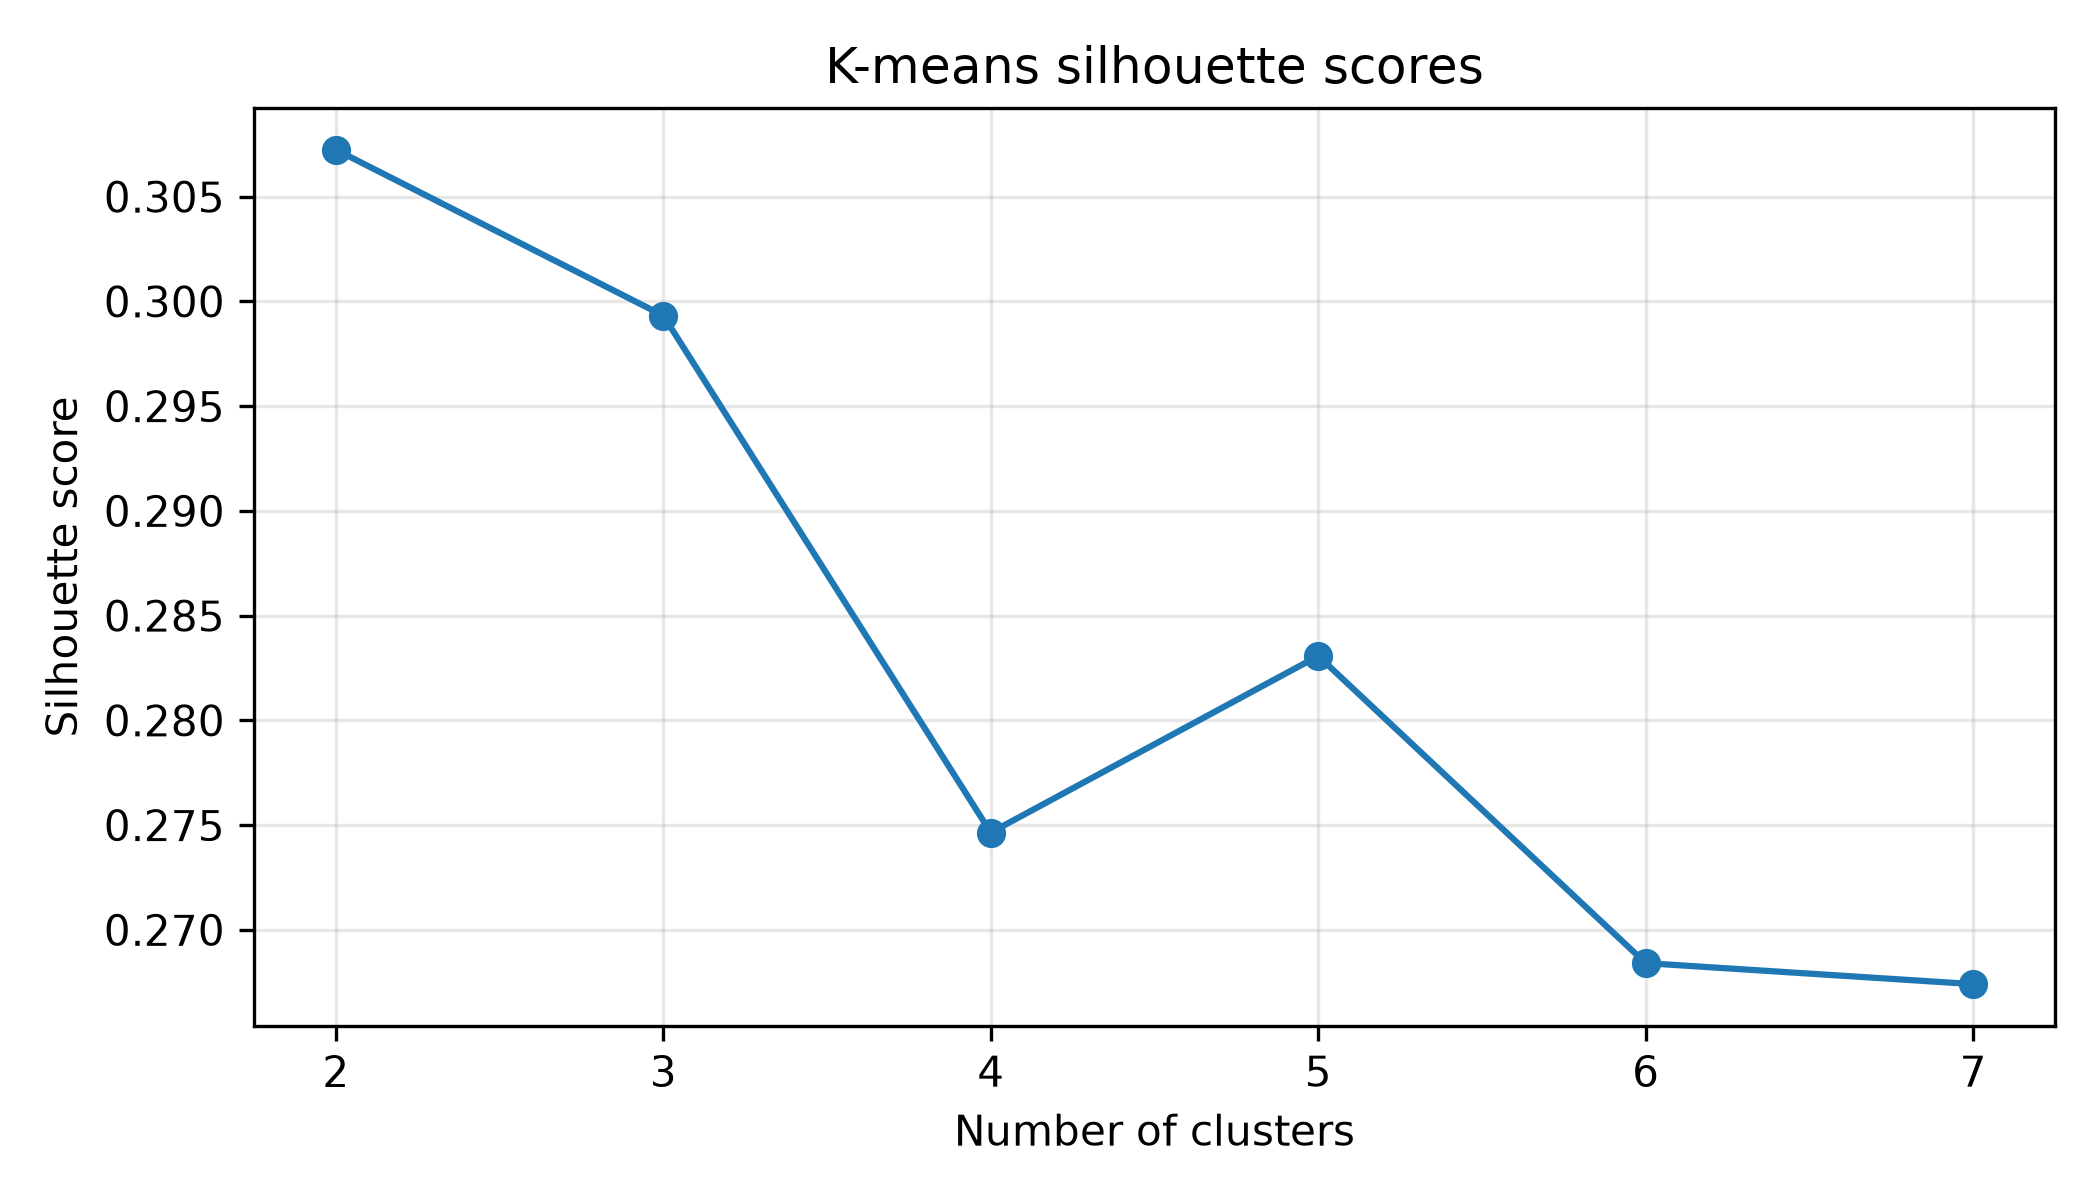
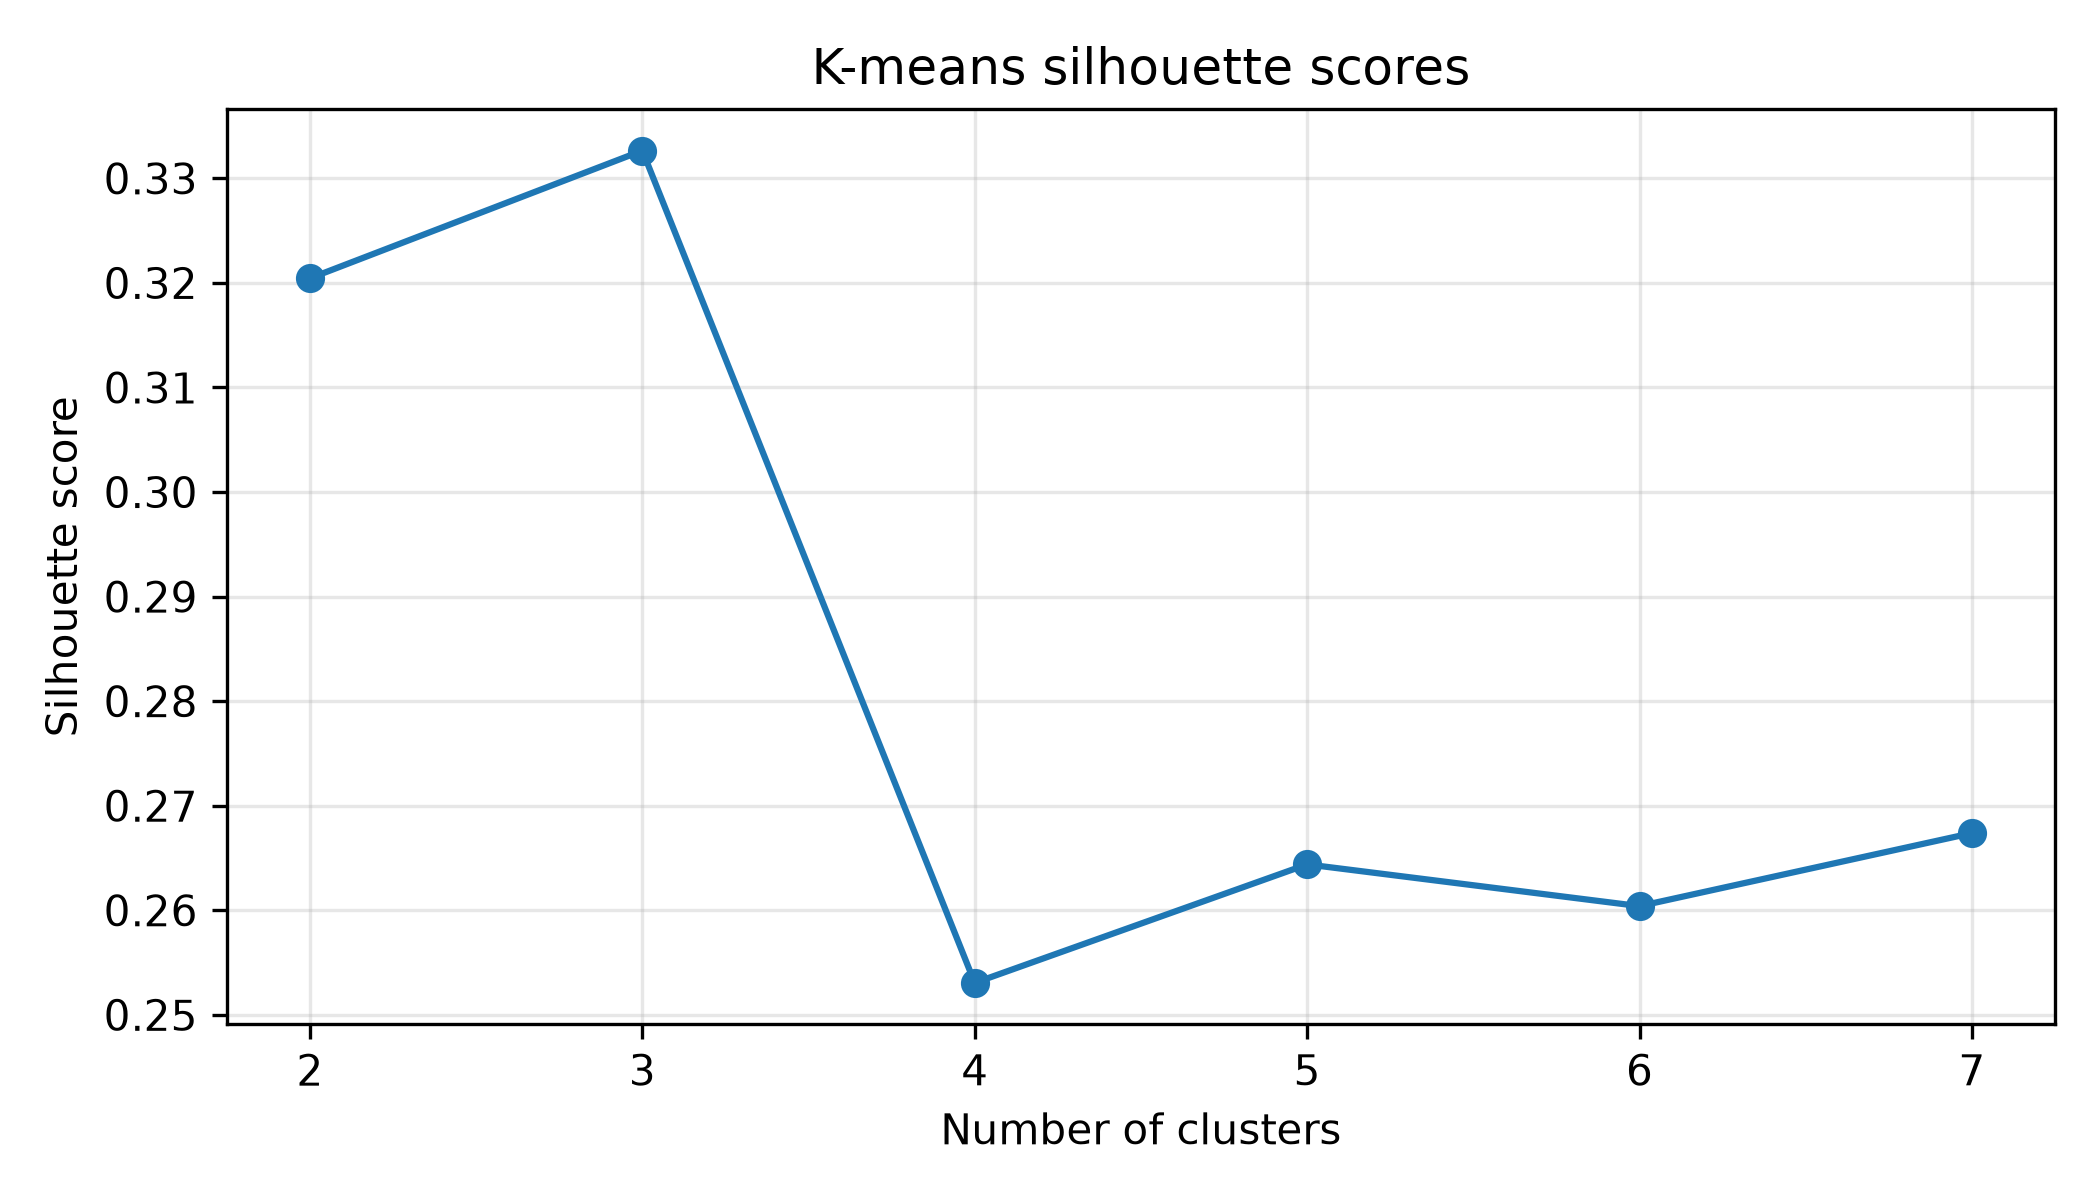
updated clustering results and dashboard

diff --git a/dashboard.py b/dashboard.py
@@ -13,13 +13,11 @@ profile = pd.read_csv(p.res_dir / "cluster_profiles.csv")
 site = site.dropna(subset=["site_lat", "site_lon", "cluster"]).copy()
 site["cluster"] = site["cluster"].astype(int)
 
-cluster_name = {1: "Resilient high-exposure sites", 2: "Weather-sensitive commuter sites",
-                3: "Resilient lower-exposure sites"}
-cluster_focus = {1: "High cycling use and high rain exposure, but limited rain loss. "
-                    "Maintain capacity; check weather matching carefully.",
-                 2: "Main investment group for drainage, surface quality, lighting and route continuity.",
-                 3: "Low rain loss under more stable conditions. Maintain current quality and monitor as "
-                    "a resilient group."}
+cluster_name = {1: "Highest average rain penalty", 2: "Lowest average rain penalty",
+                3: "High rain exposure, moderate average penalty"}
+cluster_focus = {1: "Main group to check first for drainage, surface quality, lighting and route continuity.",
+                 2: "High cycling use and low estimated rain loss. Keep capacity and monitor as the stable group.",
+                 3: "Small high-rain-exposure group. Check weather matching and local exposure before reading it too strongly."}
 colors = {1: "royalblue", 2: "salmon", 3: "lightgreen"}
 
 site["cluster_name"] = site["cluster"].map(cluster_name)
@@ -64,9 +62,9 @@ app_ui = ui.page_sidebar(
     ui.sidebar(
         ui.h4("Filters"),
         ui.input_checkbox_group("picked_clusters", "Clusters",
-                                choices={"1": "1 — Resilient high-exposure sites",
-                                         "2": "2 — Weather-sensitive commuter sites",
-                                         "3": "3 — Resilient lower-exposure sites"},
+                                choices={"1": "1 — Highest average rain penalty",
+                                         "2": "2 — Lowest average rain penalty",
+                                         "3": "3 — High rain exposure, moderate average penalty"},
                                 selected=["1", "2", "3"]),
         ui.input_slider("min_count", "Minimum typical daily cyclists", min=int(site["median_daily_count"].min()),
                         max=int(site["median_daily_count"].max()), value=int(site["median_daily_count"].min())),
@@ -117,7 +115,7 @@ app_ui = ui.page_sidebar(
     ),
 
     ui.h2("Cycling weather-resilience dashboard"),
-    ui.p("The clusters separate sites by weather sensitivity, rain exposure and cycling volume.", class_="small-note"),
+    ui.p("The clusters describe average site profiles. The review table is sorted by absolute rainy-day loss, so high-volume sites can still appear high there.", class_="small-note"),
 
     ui.layout_columns(
         ui.value_box("Sites shown", ui.output_text("n_sites")),
@@ -250,7 +248,7 @@ def server(input, output, session):
 
         data["commute_share"] = 100 * data["commute_share"]
 
-        data = data.rename(columns={"site_id": "Site", "cluster": "Cluster", "cluster_name": "Site type",
+        data = data.rename(columns={"site_id": "Site", "cluster": "Cluster", "cluster_name": "Cluster profile",
                                     "median_daily_count": "Typical daily cyclists",
                                     "rain_loss_pct": "Rain loss (%)",
                                     "estimated_rain_loss": "Estimated rainy-day loss",

diff --git a/clustering_model.py b/clustering_model.py
@@ -31,7 +31,7 @@ prep = Pipeline([("fill", SimpleImputer(strategy="median")), ("scale", StandardS
 x_scaled = prep.fit_transform(x)
 
 # remove a few unusual sites so they do not affect the clusters too much and compromises silhouette width
-outlier_model = IsolationForest(contamination=0.05, random_state=p.seed)
+outlier_model = IsolationForest(contamination=0.08, random_state=p.seed)
 keep_site = outlier_model.fit_predict(x_scaled) == 1
 site["used_in_clustering"] = keep_site
 site["cluster"] = np.nan
@@ -148,8 +148,7 @@ for cl in [1, 2, 3]:
         alpha=0.9,
         edgecolor="black",
         linewidth=0.4,
-        label=f"Cluster {cl}"
-    )
+        label=f"Cluster {cl}")
 
 ax.legend(loc="lower left", frameon=True)
 ax.set_title("Cycling site clusters in Flanders", fontsize=18)
